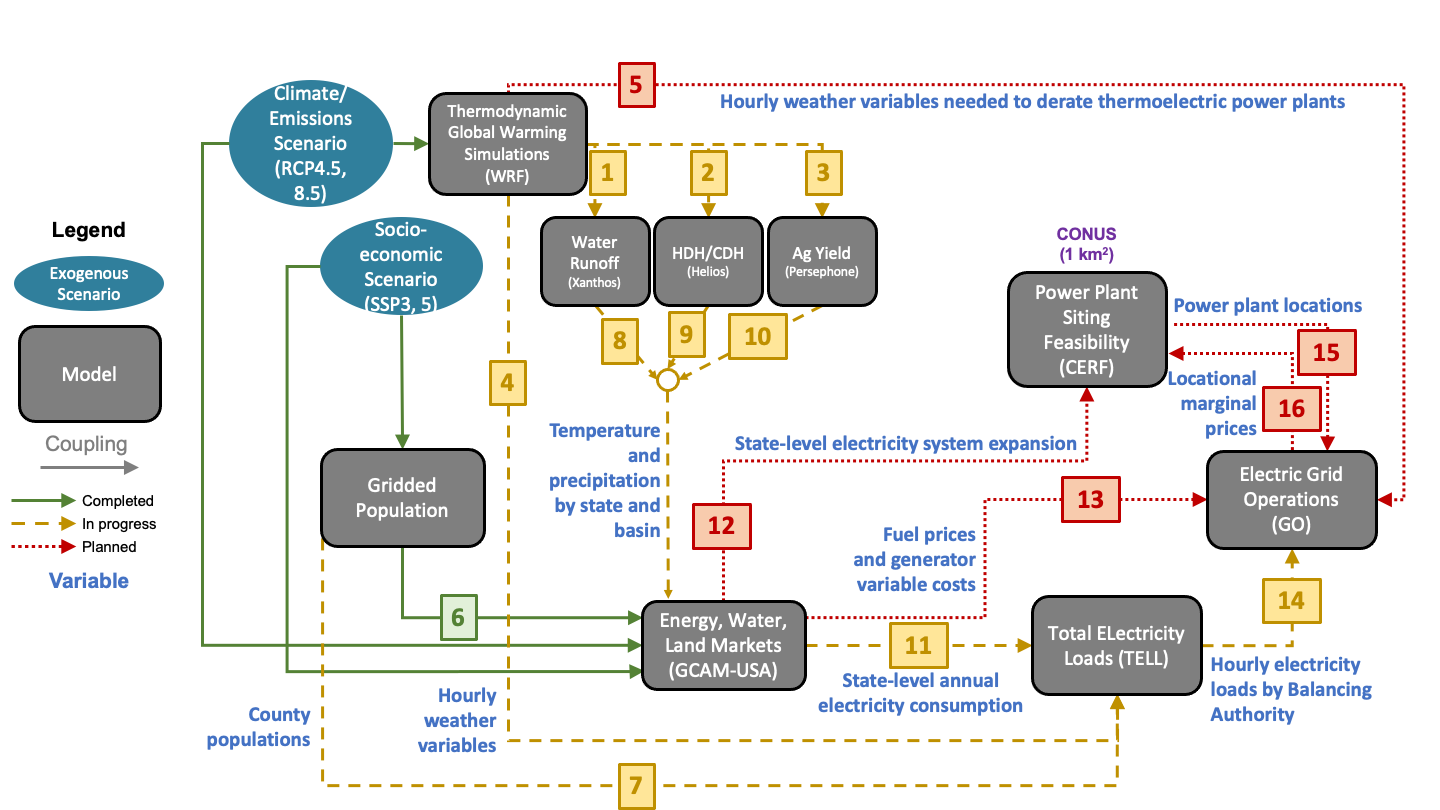
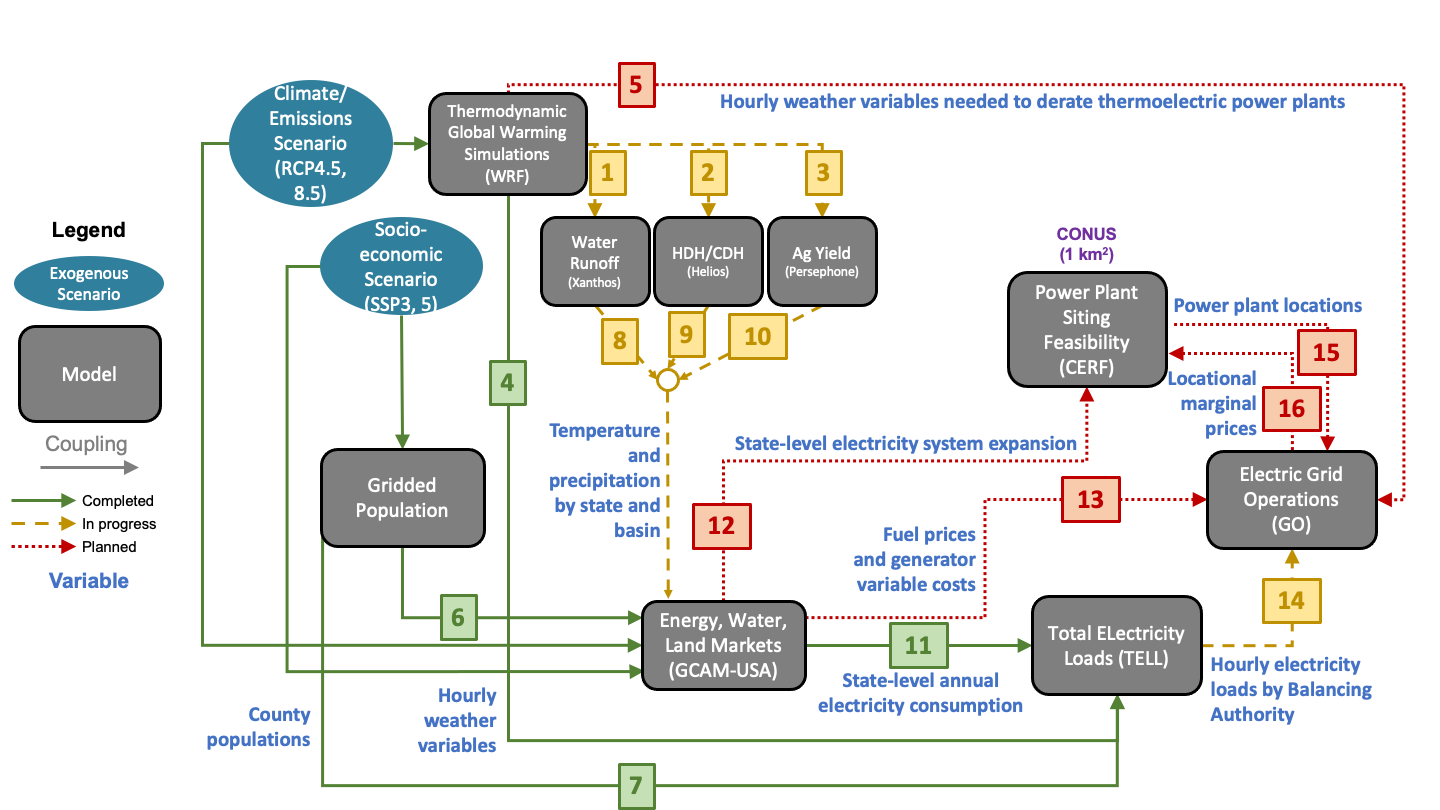
Updated wiring diagram

diff --git a/README.md b/README.md
@@ -19,9 +19,9 @@ that is not from the rcp85hotter_ssp5 scenario then just label your output direc
 Please store your data for this demonstration on PNNL's Institutional Computing (PIC) at: `/pic/projects/im3/exp_group_b_test`
 
 ## Legend
-🔴 = Planned  
-🟡 = In progress  
 🟢 = Completed  
+🟡 = In progress  
+🔴 = Planned 
 
 ## Contributing models
 | Model | Status | Version | Code |
@@ -29,7 +29,7 @@ Please store your data for this demonstration on PNNL's Institutional Computing 
 | WRF | 🟢 | v4.2.1 | https://github.com/IMMM-SFA/wrf_historical |
 | Population | 🟡 | TBD | TBD |
 | Xanthos | 🟡 | v2.4.1 | https://github.com/JGCRI/xanthos |
-| Helios | 🟡 | TBD | TBD |
+| Helios | 🟡 | v1.0.0 | TBD |
 | Persephone | 🟡 | TBD | TBD |
 | GCAM-USA | 🟡 | v5.3 | https://stash.pnnl.gov/projects/JGCRI/repos/gcam-core/browse?at=refs%2Fheads%2Fzk%2Ffeature%2Fgcam-usa-im3 |
 | TELL | 🟡 | v1.0 | https://github.com/IMMM-SFA/tell |
@@ -52,14 +52,14 @@ about the forcing data are provided in the table below.
 | 1  | wrf_to_xanthos | 🟡 | TBD | TBD | [Documentation](https://immm-sfa.github.io/khan-etal_2022_im3gcamusa/) |
 | 2  | wrf_to_helios | 🟡 | TBD | TBD | [Documentation](https://immm-sfa.github.io/khan-etal_2022_im3gcamusa/) |
 | 3  | wrf_to_persephone | 🟡 | TBD | TBD | [Documentation](https://immm-sfa.github.io/khan-etal_2022_im3gcamusa/) |
-| 4  | wrf_to_tell | 🟡 | [Code](https://github.com/IMMM-SFA/im3components/tree/main/im3components/wrf_to_tell) | /pic/projects/im3/exp_group_b_test/output_data/wrf_to_tell | TBD |
+| 4  | wrf_to_tell | 🟢 | [Code](https://github.com/IMMM-SFA/im3components/tree/main/im3components/wrf_to_tell) | /pic/projects/im3/exp_group_b_test/output_data/wrf_to_tell | [Documentation](https://github.com/IMMM-SFA/im3components/tree/main/im3components/wrf_to_tell) |
 | 5  | wrf_to_go | 🔴 | TBD | TBD | TBD |
 | 6  | pop_to_gcamusa | 🟢 | TBD | TBD | TBD |
-| 7  | pop_to_tell | 🟡 | TBD | /pic/projects/im3/exp_group_b_test/forcing_data/population | TBD |
+| 7  | pop_to_tell | 🟢 | TBD | /pic/projects/im3/exp_group_b_test/forcing_data/population | TBD |
 | 8  | xanthos_to_gcamusa | 🟡 | TBD | TBD | TBD |
 | 9  | helios_to_gcamusa | 🟡 | TBD | TBD | TBD |
 | 10 | persephone_to_gcamusa | 🟡 | TBD | TBD | TBD |
-| 11 | gcamusa_to_tell | 🟡 | TBD | /pic/projects/im3/exp_group_b_test/output_data/gcamusa/sample_output | TBD |
+| 11 | gcamusa_to_tell | 🟢 | TBD | /pic/projects/im3/exp_group_b_test/output_data/gcamusa/sample_output | TBD |
 | 12 | gcamusa_to_cerf | 🔴 | TBD | TBD | TBD |
 | 13 | gcamusa_to_go | 🔴 | TBD | TBD | TBD |
 | 14 | tell_to_go | 🟡 | TBD | /pic/projects/im3/exp_group_b_test/output_data/tell/sample_output | TBD |
